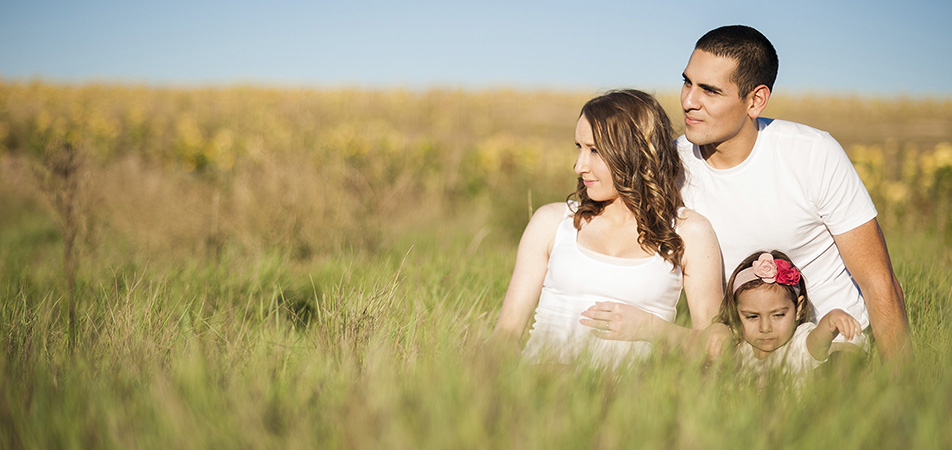
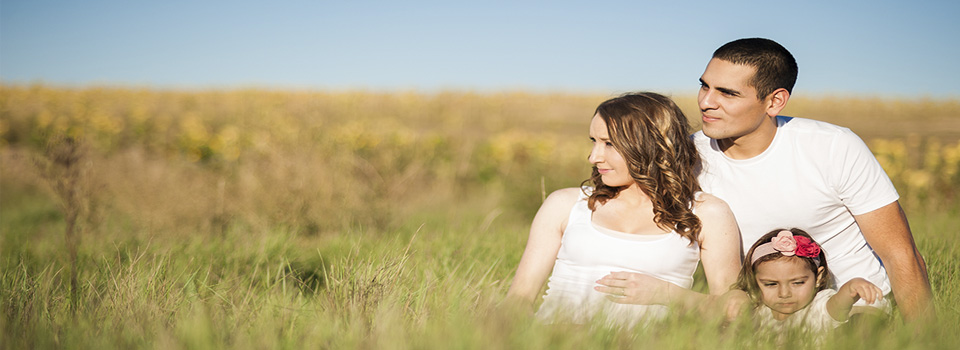
fixed slider image distortion for responsive

diff --git a/public/css/style.css b/public/css/style.css
@@ -1,9 +1,18 @@
+html {
+    background-color: #F0F0F5;
+}
+
+/* nav bar */
 .container {
   position: relative;
   margin: 0 auto;
   width: 94%;
   max-width: 960px;
   font-family: helvetica, sans-serif;
+}
+
+.content {
+  position: relative;
 }
 
 #header {
@@ -15,11 +24,10 @@
   color: white;
   margin-top: -0.5em;
 }
-span {
-    color: ;
-}
 
 h1 {
+    font-size: 4rem !important;
+    margin-top: 0.6rem !important;
     position: absolute;
     top: 0;
     left: 0;
@@ -65,8 +73,8 @@ button {
     width:100%;
 }
 
-.bx-wrapper, .bx-viewport {
-    height: 450px !important; 
+.bx-wrapper, .bx-viewport, .bxslider img {
+    max-height: 350px !important; 
 }
 
 /* Home page styling*/
@@ -189,31 +197,30 @@ input:focus, textarea:focus {
     margin-left: 80px;
 }
 
-@media (max-width: 599px) {
-    #header {
-    .container { 
+@media (max-width: 700px) {
+    #header .container { 
         width: 100%; 
     }
-    h1 {
-      left: 3%;
-    }
-  }
+  
     #nav {
         width: 100%;
         top: 60px;
-        &:before {
-            content: '\2630';
-            display: block;
-            position: absolute;
-            right: 3%;
-            top: -50px;
-            line-height: 40px;
-            cursor: pointer;
+    }
+    #nav:before {
+        content: '\2630';
+        display: block;
+        position: absolute;
+        right: 3%;
+        top: -50px;
+        line-height: 40px;
+        cursor: pointer;
     }
 
     #nav ul {
+        display: none;
         background: #222;
         width: 100%;
+        height: 100%;
     }
 
     #nav ul li {
@@ -224,10 +231,21 @@ input:focus, textarea:focus {
         padding: 10px 3%;
         line-height: 20px;
         border-top: 1px solid #333;
+
     }
+    
+    .bxslider img {
+        margin:0 auto;
+        width:100%;
+    }
+
+    .bx-wrapper, .bx-viewport, .bxslider img {
+        max-height: 350px !important; 
+    }   
 
 /*Transition*/
   #nav ul {
+    display: none;
     transition: 350ms;
     -moz-transition: 350ms;
     -webkit-transition: 350ms;
@@ -238,8 +256,9 @@ input:focus, textarea:focus {
     -moz-transform-origin: 50% 0;
     -webkit-transform-origin: 50% 0;
   }
-  
-  #nav.open ul {
+
+  #nav .open ul {
+    display: block;
     transform: translateY(0px);
     -moz-transform: translateY(0px);
     -webkit-transform:  perspective(600) rotate3d(0,0,0,0);

diff --git a/public/js/script.js b/public/js/script.js
@@ -1,4 +1,10 @@
 $( document ).ready(function() {
+  
+  $(function(){
+      $('#nav').click(function() {
+        $(this).toggleClass('open');
+      });
+  });
 
 	$('.bxslider').bxSlider({
   		mode: 'horizontal',
@@ -8,11 +14,5 @@ $( document ).ready(function() {
   		speed: 1000,
   		auto:true,
   		pause:2000
-	});
-
-	$(function(){
-  		$('#nav').click(function() {
-    		$(this).toggleClass('open');
-  		});
 	});
 });
